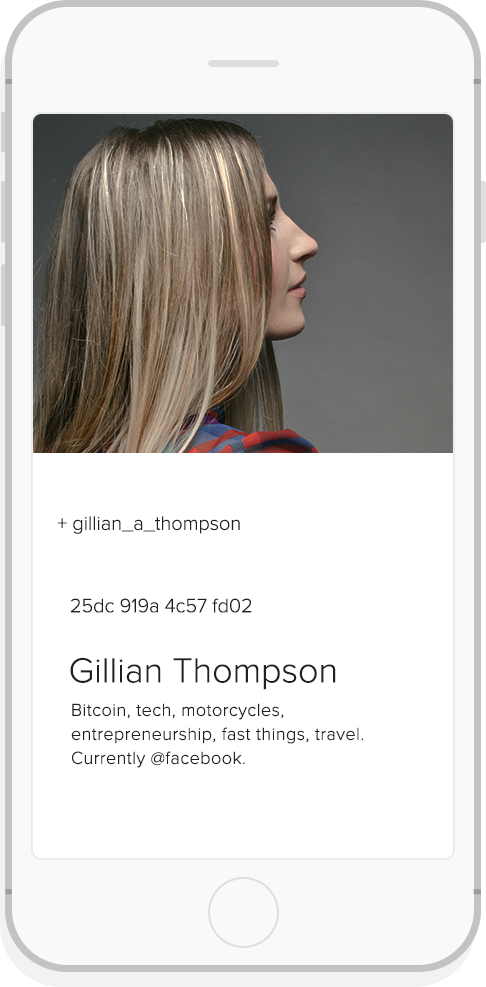
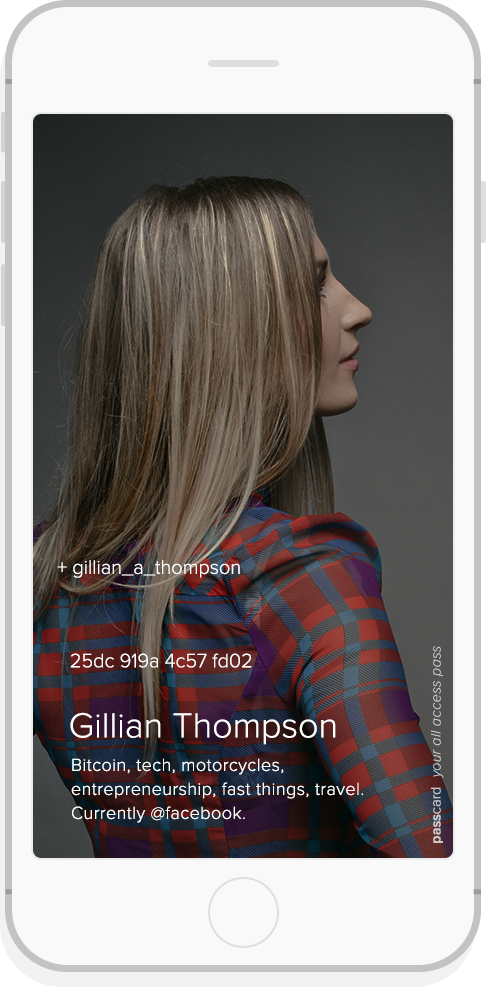
updated hero image and upload small hero arrow. Seemed to have resolved angualarjs responsive retina image issue. adjusted hero image width

diff --git a/app/styles/main.css b/app/styles/main.css
@@ -107,7 +107,7 @@ a.btn.btn-primary.btn-lg.btn-registrar:hover {background-color:#2378cc;border-co
 .navbar-toggle .icon-bar + .icon-bar {margin-top: 3px;}
 .navbar-inverse .navbar-brand:focus, .navbar-inverse .navbar-brand:hover, .navbar-inverse .navbar-nav > li > a:hover, .navbar-inverse .navbar-nav > li > a:focus {color: rgba(255,255,255,0.5);}
 .cover h1, .cover p {font-weight: 100; margin-top: 0;}
-.passport-wrap {margin-bottom:50px; max-width: 243px;}
+.passport-wrap {margin-bottom:50px; margin-left:0; margin-right:0;}
 .masthead-brand {margin-top: 10px;margin-bottom: 10px;}
 .masthead-nav > li {display: inline-block;}
 .masthead-nav > li + li {margin-left: 20px;}
